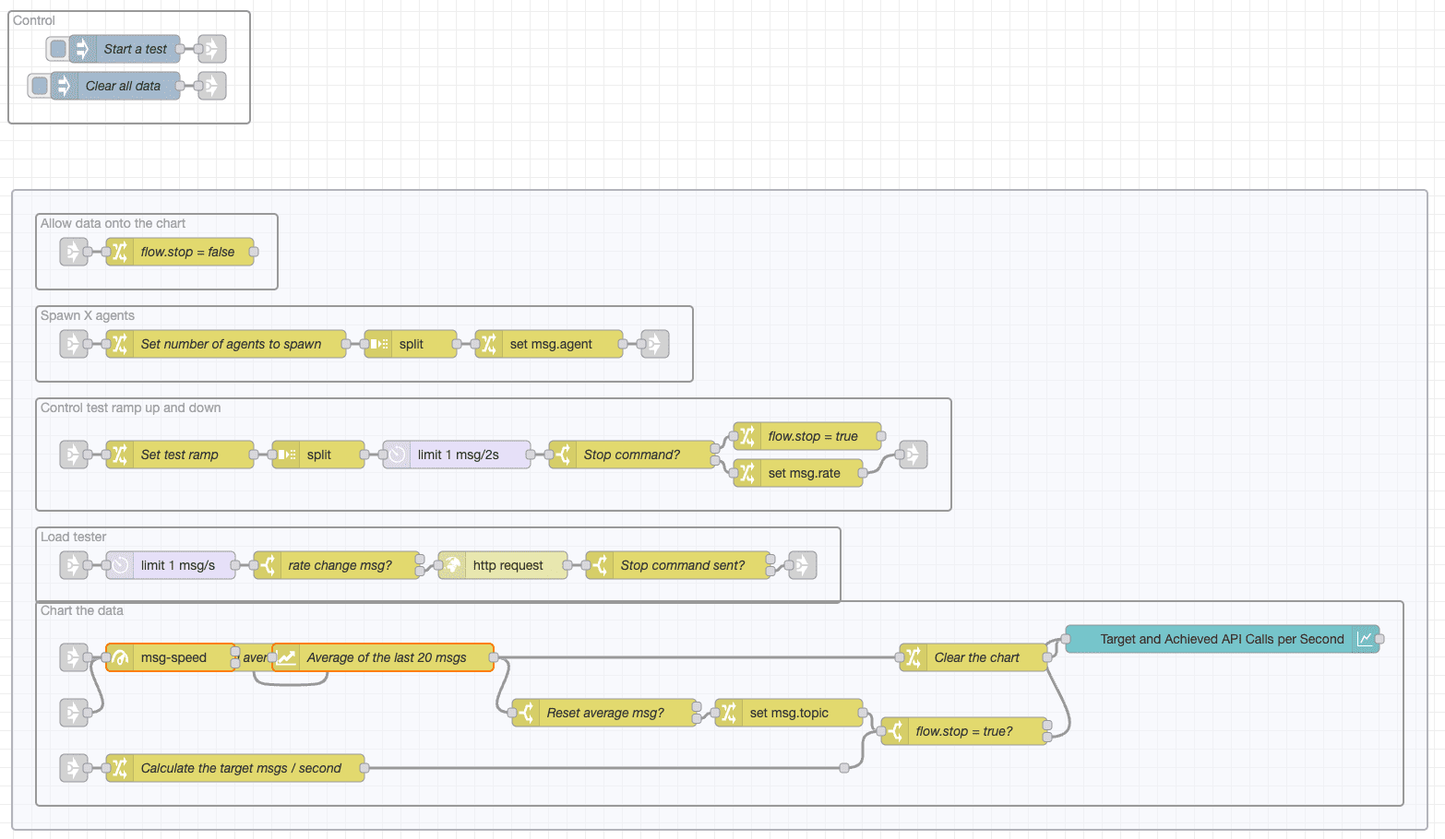
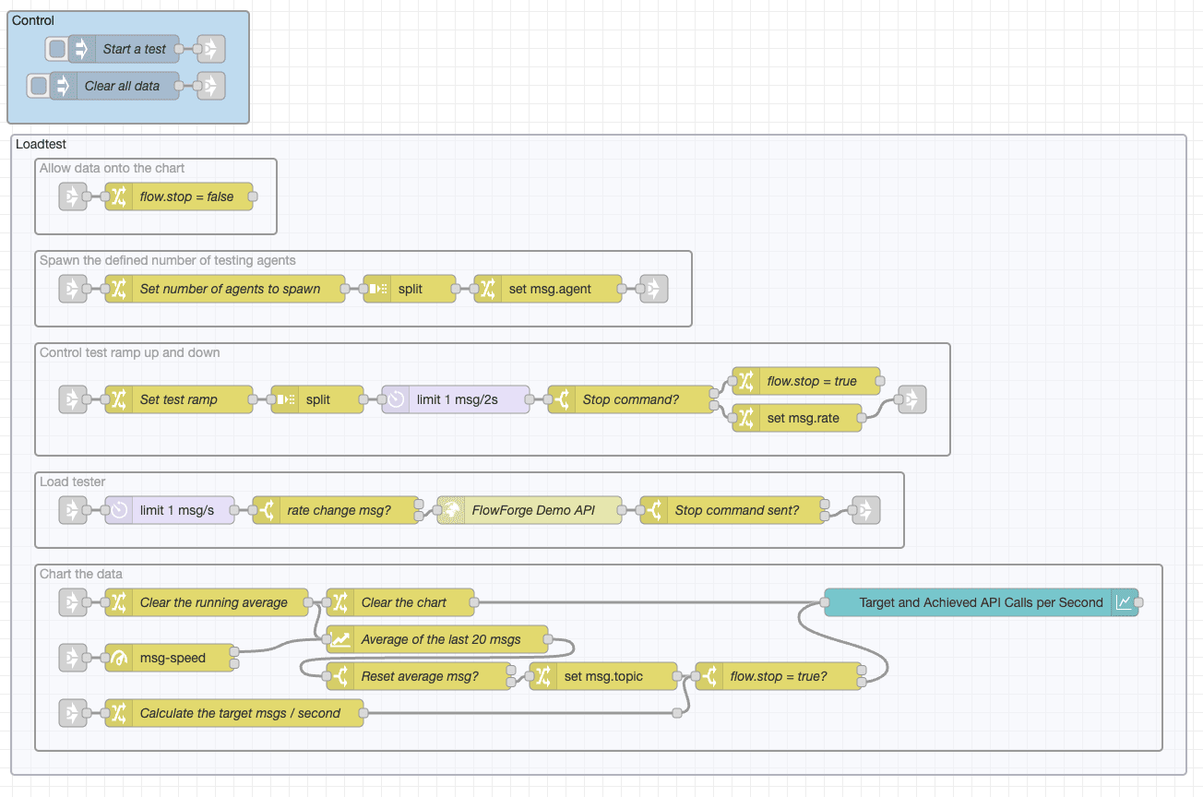
tidier images, better wording, tidier flows to import

Changed region(s): [[0.0, 0.0, 1.0, 1.0]]

diff --git a/src/blog/2023/06/node-red-ha-flowforge.md b/src/blog/2023/06/node-red-ha-flowforge.md
@@ -47,7 +47,7 @@ Don't worry, we have a solution. To update your instance you can use our [DevOps
 
 To explore FlowForge's HA feature preview, I am going to build a basic load testing application. The application will make an API call to a Node-RED instance which will in turn reply with a small payload. 
 
-I'm not looking to methodically load-test HA on FlowForge Cloud here, but I want to make sure I can see the impact of HA on the application. To that end, I am going to create a synthetic bottleneck on the flows running under HA. In simple terms, I will use a delay node which only allows one message to pass through every 100 milliseconds. I'm going to queue up any messages that arrive in the mean-time. This is a reasonable simulation of what we might see if each connection to the HA instance was in turn completing an interaction with a database or MQTT broker.
+I'm not looking to methodically load-test HA on FlowForge Cloud here, but I want to make sure I can see the impact of HA on the application. To that end, I am going to create a synthetic bottleneck on the flows running in HA. In simple terms, I will use a delay node which only allows one message to pass through every 100 milliseconds. I'm going to queue up any messages that arrive in the mean-time. This is a reasonable simulation of what we might see if each connection to the HA instance was in turn completing an interaction with a database or MQTT broker.
 
  ![API which returns a timestamp and will only reply 10 times a second](./images/api-flow.png "API which returns a timestamp and will only reply 10 times a second")
 
@@ -57,19 +57,21 @@ I'm not looking to methodically load-test HA on FlowForge Cloud here, but I want
 [{"id":"045a7c658cff2c79","type":"group","z":"03c64b484908c3ed","name":"API with an artificial bottleneck","style":{"label":true},"nodes":["441caf15dca25bf5","3cb096f08952b5b0","31a50f37100b831c","3e9f592a0e907077"],"x":34,"y":39,"w":872,"h":82},{"id":"441caf15dca25bf5","type":"http in","z":"03c64b484908c3ed","g":"045a7c658cff2c79","name":"","url":"/api","method":"get","upload":false,"swaggerDoc":"","x":120,"y":80,"wires":[["31a50f37100b831c"]]},{"id":"3cb096f08952b5b0","type":"http response","z":"03c64b484908c3ed","g":"045a7c658cff2c79","name":"","statusCode":"","headers":{},"x":830,"y":80,"wires":[]},{"id":"31a50f37100b831c","type":"delay","z":"03c64b484908c3ed","g":"045a7c658cff2c79","name":"Artificial bottleneck of 100 Milliseconds","pauseType":"delay","timeout":"100","timeoutUnits":"milliseconds","rate":"1","nbRateUnits":"1","rateUnits":"second","randomFirst":"1","randomLast":"5","randomUnits":"seconds","drop":false,"allowrate":false,"outputs":1,"x":360,"y":80,"wires":[["3e9f592a0e907077"]]},{"id":"3e9f592a0e907077","type":"change","z":"03c64b484908c3ed","g":"045a7c658cff2c79","name":"msg.payload = timestamp","rules":[{"t":"set","p":"payload","pt":"msg","to":"","tot":"date"}],"action":"","property":"","from":"","to":"","reg":false,"x":650,"y":80,"wires":[["3cb096f08952b5b0"]]}]
  ```
 
-The next step is to create a Node-RED flow to apply load to the API and record response rates. I want the flow to control the load-test level over a period of time and show the results on a graph. I've also attempted to minimise the impact of any bottlenecks outside of API I'm testing.
+The next step is to create a Node-RED flow to apply load to the API and record response rates. I want the flow to control the load-test level over a period of time and show the results on a graph.
 
 ![Load-testing flow](./images/loadtest-flow.png "Load-testing flow")
 
-If you'd like to view it yourself you can import the load-tester into Node-RED using the code below. I've tested this flow on standard and FlowForge Node-RED version 3.0.2 so it should run fine on any Node-RED instance with sufficient bandwidth and compute power.
+If you'd like to view this flow yourself you can import the load-tester into Node-RED using the code below. I've tested this flow on standard and FlowForge Node-RED version 3.0.2 so it should run fine on any Node-RED instance with sufficient bandwidth and compute power.
 
 ```json
-[{"id":"f6f2187d.f17ca8","type":"tab","label":"Load Tester","disabled":false,"info":""},{"id":"10522c0baed97b5b","type":"group","z":"f6f2187d.f17ca8","name":"","style":{"stroke":"#b2b3bd","fill":"#f2f3fb","fill-opacity":"0.5","label":true,"color":"#32333b"},"nodes":["a2e1c5156a24ea78","c7373136339401aa","55e8c82ad7a34348","8501b8a0073d43b6","b68cd727d589a27f"],"x":38,"y":233,"w":1534,"h":694},{"id":"2efd22a943329fc5","type":"group","z":"f6f2187d.f17ca8","name":"Control","style":{"label":true},"nodes":["19ac671f57cb4861","b5bd39105d7e709f","e572e84b9390305a","020775aa43e7dfda"],"x":34,"y":39,"w":262,"h":122},{"id":"a2e1c5156a24ea78","type":"group","z":"f6f2187d.f17ca8","g":"10522c0baed97b5b","name":"Spawn X agents","style":{"label":true},"nodes":["091d36d6e00578ce","a82342ad9c7a5d43","5fddc154f1a56e2c","64414f6450cf3953","5a238b36ad1cd200"],"x":64,"y":359,"w":712,"h":82},{"id":"c7373136339401aa","type":"group","z":"f6f2187d.f17ca8","g":"10522c0baed97b5b","name":"Control test ramp up and down","style":{"label":true},"nodes":["6cb00c173376e046","3adab13204328c4d","9f19aff9ab804d3d","4d46ca64933ac1d3","71a35667382f0c5a","9490dab01d32ad32","3f9f8d0df34377f2","32fd211dc6eacc21"],"x":64,"y":459,"w":992,"h":122},{"id":"55e8c82ad7a34348","type":"group","z":"f6f2187d.f17ca8","g":"10522c0baed97b5b","name":"Load tester","style":{"label":true},"nodes":["466b7bc51b380a66","908750260a627af8","8e6ea88e04427117","d543dcaaa192df98","f293c04ab38c4d90","4782b199b4716137"],"x":64,"y":599,"w":872,"h":82},{"id":"8501b8a0073d43b6","type":"group","z":"f6f2187d.f17ca8","g":"10522c0baed97b5b","name":"Chart the data","style":{"label":true},"nodes":["180c5e48ef2bc3dc","35373d372a8332bd","50fc36ba2355499d","17e6b261606e685d","2c1f01a17d300de8","ae514cab763c2fa7","0715e1fb5dafc7b8","67c09ddccdf925b0","2f2ec619699434f9","7a47fef4a69aefb0","0f474f2e72a21deb","9cc5785934424c73","837736a63a478ade","35373d372a8332bd"],"x":64,"y":679,"w":1482,"h":222},{"id":"b68cd727d589a27f","type":"group","z":"f6f2187d.f17ca8","g":"10522c0baed97b5b","name":"Allow data onto the chart","style":{"label":true},"nodes":["220236ca84210a64","236bbe5fa503c96c"],"x":64,"y":259,"w":262,"h":82},{"id":"0f474f2e72a21deb","type":"junction","z":"f6f2187d.f17ca8","g":"8501b8a0073d43b6","x":940,"y":860,"wires":[["837736a63a478ade"]]},{"id":"091d36d6e00578ce","type":"change","z":"f6f2187d.f17ca8","g":"a2e1c5156a24ea78","name":"Set number of agents to spawn","rules":[{"t":"set","p":"payload","pt":"msg","to":"[\"1\",\"2\",\"3\",\"4\",\"5\",\"6\",\"7\",\"8\",\"9\",\"10\"]","tot":"json"}],"action":"","property":"","from":"","to":"","reg":false,"x":270,"y":400,"wires":[["a82342ad9c7a5d43"]]},{"id":"a82342ad9c7a5d43","type":"split","z":"f6f2187d.f17ca8","g":"a2e1c5156a24ea78","name":"","splt":"\\n","spltType":"str","arraySplt":1,"arraySpltType":"len","stream":false,"addname":"","x":470,"y":400,"wires":[["5a238b36ad1cd200"]]},{"id":"5fddc154f1a56e2c","type":"link in","z":"f6f2187d.f17ca8","g":"a2e1c5156a24ea78","name":"link in 13","links":["b5bd39105d7e709f"],"x":105,"y":400,"wires":[["091d36d6e00578ce"]]},{"id":"64414f6450cf3953","type":"link out","z":"f6f2187d.f17ca8","g":"a2e1c5156a24ea78","name":"link out 9","mode":"link","links":["8e6ea88e04427117"],"x":735,"y":400,"wires":[]},{"id":"5a238b36ad1cd200","type":"change","z":"f6f2187d.f17ca8","g":"a2e1c5156a24ea78","name":"","rules":[{"t":"set","p":"agent","pt":"msg","to":"payload","tot":"msg"}],"action":"","property":"","from":"","to":"","reg":false,"x":620,"y":400,"wires":[["64414f6450cf3953"]]},{"id":"6cb00c173376e046","type":"link out","z":"f6f2187d.f17ca8","g":"c7373136339401aa","name":"link out 10","mode":"link","links":["0715e1fb5dafc7b8","8e6ea88e04427117"],"x":1015,"y":520,"wires":[]},{"id":"3adab13204328c4d","type":"delay","z":"f6f2187d.f17ca8","g":"c7373136339401aa","name":"","pauseType":"rate","timeout":"5","timeoutUnits":"seconds","rate":"1","nbRateUnits":"2","rateUnits":"second","randomFirst":"1","randomLast":"5","randomUnits":"seconds","drop":false,"allowrate":false,"outputs":1,"x":520,"y":520,"wires":[["3f9f8d0df34377f2"]]},{"id":"9f19aff9ab804d3d","type":"split","z":"f6f2187d.f17ca8","g":"c7373136339401aa","name":"","splt":"\\n","spltType":"str","arraySplt":1,"arraySpltType":"len","stream":false,"addname":"","x":370,"y":520,"wires":[["3adab13204328c4d"]]},{"id":"4d46ca64933ac1d3","type":"link in","z":"f6f2187d.f17ca8","g":"c7373136339401aa","name":"link in 14","links":["b5bd39105d7e709f"],"x":105,"y":520,"wires":[["71a35667382f0c5a"]]},{"id":"71a35667382f0c5a","type":"change","z":"f6f2187d.f17ca8","g":"c7373136339401aa","name":"Set test ramp","rules":[{"t":"set","p":"payload","pt":"msg","to":"[1000,900,800,700,600,500,400,300,200,100,90,80,70,60,50,50,50,50,50,50,50,50,50,50,50,50,50,50,50,50,50,50,50,50,50,50,50,50,50,50,50,50,50,50,60,70,80,90,100,200,300,400,500,600,700,800,900,1000,\"stop\"]","tot":"json"}],"action":"","property":"","from":"","to":"","reg":false,"x":220,"y":520,"wires":[["9f19aff9ab804d3d"]]},{"id":"9490dab01d32ad32","type":"change","z":"f6f2187d.f17ca8","g":"c7373136339401aa","name":"","rules":[{"t":"set","p":"rate","pt":"msg","to":"payload","tot":"msg"}],"action":"","property":"","from":"","to":"","reg":false,"x":890,"y":540,"wires":[["6cb00c173376e046"]]},{"id":"3f9f8d0df34377f2","type":"switch","z":"f6f2187d.f17ca8","g":"c7373136339401aa","name":"Stop command?","property":"payload","propertyType":"msg","rules":[{"t":"eq","v":"stop","vt":"str"},{"t":"else"}],"checkall":"true","repair":false,"outputs":2,"x":710,"y":520,"wires":[["32fd211dc6eacc21"],["9490dab01d32ad32"]]},{"id":"32fd211dc6eacc21","type":"change","z":"f6f2187d.f17ca8","g":"c7373136339401aa","name":"flow.stop = true","rules":[{"t":"set","p":"stop","pt":"flow","to":"true","tot":"bool"}],"action":"","property":"","from":"","to":"","reg":false,"x":900,"y":500,"wires":[[]]},{"id":"466b7bc51b380a66","type":"http request","z":"f6f2187d.f17ca8","g":"55e8c82ad7a34348","name":"","method":"GET","ret":"txt","paytoqs":"ignore","url":"","tls":"","persist":false,"proxy":"","insecureHTTPParser":false,"authType":"","senderr":false,"headers":[],"x":570,"y":640,"wires":[["4782b199b4716137"]]},{"id":"908750260a627af8","type":"delay","z":"f6f2187d.f17ca8","g":"55e8c82ad7a34348","name":"","pauseType":"rate","timeout":"5","timeoutUnits":"seconds","rate":"1","nbRateUnits":"1","rateUnits":"second","randomFirst":"1","randomLast":"5","randomUnits":"seconds","drop":false,"allowrate":true,"outputs":1,"x":210,"y":640,"wires":[["f293c04ab38c4d90"]]},{"id":"8e6ea88e04427117","type":"link in","z":"f6f2187d.f17ca8","g":"55e8c82ad7a34348","name":"link in 15","links":["64414f6450cf3953","6cb00c173376e046","d543dcaaa192df98","702296619b530dfa"],"x":105,"y":640,"wires":[["908750260a627af8"]]},{"id":"d543dcaaa192df98","type":"link out","z":"f6f2187d.f17ca8","g":"55e8c82ad7a34348","name":"link out 11","mode":"link","links":["e90e02e14ea3224a","8e6ea88e04427117","50fc36ba2355499d"],"x":895,"y":640,"wires":[]},{"id":"f293c04ab38c4d90","type":"switch","z":"f6f2187d.f17ca8","g":"55e8c82ad7a34348","name":"rate change msg?","property":"rate","propertyType":"msg","rules":[{"t":"nnull"},{"t":"else"}],"checkall":"true","repair":false,"outputs":2,"x":390,"y":640,"wires":[[],["466b7bc51b380a66"]]},{"id":"4782b199b4716137","type":"switch","z":"f6f2187d.f17ca8","g":"55e8c82ad7a34348","name":"Stop command sent?","property":"stop","propertyType":"flow","rules":[{"t":"true"},{"t":"else"}],"checkall":"true","repair":false,"outputs":2,"x":760,"y":640,"wires":[[],["d543dcaaa192df98"]]},{"id":"50fc36ba2355499d","type":"link in","z":"f6f2187d.f17ca8","g":"8501b8a0073d43b6","name":"link in 16","links":["d543dcaaa192df98"],"x":105,"y":800,"wires":[["180c5e48ef2bc3dc"]]},{"id":"2c1f01a17d300de8","type":"change","z":"f6f2187d.f17ca8","g":"8501b8a0073d43b6","name":"","rules":[{"t":"set","p":"topic","pt":"msg","to":"Achieved API Calls / Second","tot":"str"}],"action":"","property":"","from":"","to":"","reg":false,"x":880,"y":800,"wires":[["837736a63a478ade"]]},{"id":"ae514cab763c2fa7","type":"change","z":"f6f2187d.f17ca8","g":"8501b8a0073d43b6","name":"Calculate the target msgs / second","rules":[{"t":"set","p":"payload","pt":"msg","to":"1000 / msg.payload","tot":"jsonata"},{"t":"set","p":"topic","pt":"msg","to":"Target API Calls / Second","tot":"str"}],"action":"","property":"","from":"","to":"","reg":false,"x":280,"y":860,"wires":[["0f474f2e72a21deb"]]},{"id":"0715e1fb5dafc7b8","type":"link in","z":"f6f2187d.f17ca8","g":"8501b8a0073d43b6","name":"link in 17","links":["6cb00c173376e046","702296619b530dfa"],"x":105,"y":860,"wires":[["ae514cab763c2fa7"]]},{"id":"67c09ddccdf925b0","type":"link in","z":"f6f2187d.f17ca8","g":"8501b8a0073d43b6","name":"link in 18","links":["b5bd39105d7e709f","020775aa43e7dfda"],"x":105,"y":740,"wires":[["7a47fef4a69aefb0"]]},{"id":"2f2ec619699434f9","type":"change","z":"f6f2187d.f17ca8","g":"8501b8a0073d43b6","name":"Clear the chart","rules":[{"t":"set","p":"payload","pt":"msg","to":"[]","tot":"json"}],"action":"","property":"","from":"","to":"","reg":false,"x":1080,"y":740,"wires":[["35373d372a8332bd"]]},{"id":"7a47fef4a69aefb0","type":"change","z":"f6f2187d.f17ca8","g":"8501b8a0073d43b6","name":"Clear the running average","rules":[{"t":"set","p":"payload","pt":"msg","to":"clear","tot":"str"}],"action":"","property":"","from":"","to":"","reg":false,"x":250,"y":740,"wires":[["17e6b261606e685d","2f2ec619699434f9"]]},{"id":"9cc5785934424c73","type":"switch","z":"f6f2187d.f17ca8","g":"8501b8a0073d43b6","name":"Reset average msg?","property":"payload_in","propertyType":"msg","rules":[{"t":"eq","v":"clear","vt":"str"},{"t":"else"}],"checkall":"true","repair":false,"outputs":2,"x":680,"y":800,"wires":[[],["2c1f01a17d300de8"]]},{"id":"837736a63a478ade","type":"switch","z":"f6f2187d.f17ca8","g":"8501b8a0073d43b6","name":"flow.stop = true?","property":"stop","propertyType":"flow","rules":[{"t":"true"},{"t":"else"}],"checkall":"true","repair":false,"outputs":2,"x":1070,"y":820,"wires":[[],["35373d372a8332bd"]]},{"id":"220236ca84210a64","type":"change","z":"f6f2187d.f17ca8","g":"b68cd727d589a27f","name":"flow.stop = false","rules":[{"t":"set","p":"stop","pt":"flow","to":"false","tot":"bool"}],"action":"","property":"","from":"","to":"","reg":false,"x":220,"y":300,"wires":[[]]},{"id":"236bbe5fa503c96c","type":"link in","z":"f6f2187d.f17ca8","g":"b68cd727d589a27f","name":"link in 19","links":["b5bd39105d7e709f"],"x":105,"y":300,"wires":[["220236ca84210a64"]]},{"id":"19ac671f57cb4861","type":"inject","z":"f6f2187d.f17ca8","g":"2efd22a943329fc5","name":"Start a test","props":[],"repeat":"","crontab":"","once":false,"onceDelay":0.1,"topic":"","x":160,"y":80,"wires":[["b5bd39105d7e709f"]]},{"id":"b5bd39105d7e709f","type":"link out","z":"f6f2187d.f17ca8","g":"2efd22a943329fc5","name":"link out 12","mode":"link","links":["c400cbe00d5157eb","11f154eb8793628e","932ad072f2a06f5b","e9af1c9fa92b2d28","f82a1a50e69f92ac","5fddc154f1a56e2c","4d46ca64933ac1d3","67c09ddccdf925b0","236bbe5fa503c96c","34adf87fc623f3a9","ff6cf9cb22aae286","eb689d3c5969a421","f0be31cc6f44d71e"],"x":255,"y":80,"wires":[]},{"id":"e572e84b9390305a","type":"inject","z":"f6f2187d.f17ca8","g":"2efd22a943329fc5","name":"Clear all data","props":[],"repeat":"","crontab":"","once":false,"onceDelay":0.1,"topic":"","x":150,"y":120,"wires":[["020775aa43e7dfda"]]},{"id":"020775aa43e7dfda","type":"link out","z":"f6f2187d.f17ca8","g":"2efd22a943329fc5","name":"link out 13","mode":"link","links":["932ad072f2a06f5b","67c09ddccdf925b0","eb689d3c5969a421"],"x":255,"y":120,"wires":[]},{"id":"35373d372a8332bd","type":"ui_chart","z":"f6f2187d.f17ca8","g":"8501b8a0073d43b6","name":"","group":"ac144f4cf90c7c0f","order":0,"width":"6","height":"6","label":"Target and Achieved API Calls per Second","chartType":"line","legend":"true","xformat":"HH:mm:ss","interpolate":"linear","nodata":"","dot":false,"ymin":"","ymax":"","removeOlder":"5","removeOlderPoints":"","removeOlderUnit":"60","cutout":0,"useOneColor":false,"useUTC":false,"colors":["#1f77b4","#ec6dee","#ff7f0e","#2ca02c","#98df8a","#d62728","#ff9896","#9467bd","#c5b0d5"],"outputs":1,"useDifferentColor":false,"className":"","x":1350,"y":720,"wires":[[]]},{"id":"180c5e48ef2bc3dc","type":"msg-speed","z":"f6f2187d.f17ca8","name":"","frequency":"sec","interval":1,"estimation":false,"ignore":true,"pauseAtStartup":false,"topicDependent":false,"x":210,"y":740,"wires":[["17e6b261606e685d"],[]]},{"id":"17e6b261606e685d","type":"moving-average","z":"f6f2187d.f17ca8","name":"Average of the last 20 msgs","amount":"20","weight":"cumulative","x":440,"y":740,"wires":[["9cc5785934424c73"]]},{"id":"ac144f4cf90c7c0f","type":"ui_group","name":"","tab":"d07184e97ed77e45","order":1,"disp":true,"width":"6","collapse":false,"className":""},{"id":"d07184e97ed77e45","type":"ui_tab","name":"Home","icon":"dashboard","disabled":false,"hidden":false}]
+[{"id":"f6f2187d.f17ca8","type":"tab","label":"Load Tester","disabled":false,"info":""},{"id":"10522c0baed97b5b","type":"group","z":"f6f2187d.f17ca8","name":"Loadtest","style":{"stroke":"#b2b3bd","fill":"#f2f3fb","fill-opacity":"0.5","label":true,"color":"#32333b"},"nodes":["a2e1c5156a24ea78","c7373136339401aa","55e8c82ad7a34348","8501b8a0073d43b6","b68cd727d589a27f"],"x":38,"y":233,"w":1274,"h":694},{"id":"2efd22a943329fc5","type":"group","z":"f6f2187d.f17ca8","name":"Control","style":{"label":true,"fill":"#bfdbef","color":"#000000"},"nodes":["19ac671f57cb4861","b5bd39105d7e709f","e572e84b9390305a","020775aa43e7dfda"],"x":34,"y":99,"w":262,"h":122},{"id":"a2e1c5156a24ea78","type":"group","z":"f6f2187d.f17ca8","g":"10522c0baed97b5b","name":"Spawn the defined number of testing agents","style":{"label":true},"nodes":["091d36d6e00578ce","a82342ad9c7a5d43","5fddc154f1a56e2c","64414f6450cf3953","5a238b36ad1cd200"],"x":64,"y":359,"w":712,"h":82},{"id":"c7373136339401aa","type":"group","z":"f6f2187d.f17ca8","g":"10522c0baed97b5b","name":"Control test ramp up and down","style":{"label":true},"nodes":["6cb00c173376e046","3adab13204328c4d","9f19aff9ab804d3d","4d46ca64933ac1d3","71a35667382f0c5a","9490dab01d32ad32","3f9f8d0df34377f2","32fd211dc6eacc21"],"x":64,"y":459,"w":992,"h":122},{"id":"55e8c82ad7a34348","type":"group","z":"f6f2187d.f17ca8","g":"10522c0baed97b5b","name":"Load tester","style":{"label":true},"nodes":["908750260a627af8","8e6ea88e04427117","d543dcaaa192df98","f293c04ab38c4d90","4782b199b4716137","b6bd1006d988e945"],"x":64,"y":599,"w":942,"h":82},{"id":"8501b8a0073d43b6","type":"group","z":"f6f2187d.f17ca8","g":"10522c0baed97b5b","name":"Chart the data","style":{"label":true},"nodes":["180c5e48ef2bc3dc","35373d372a8332bd","50fc36ba2355499d","17e6b261606e685d","2c1f01a17d300de8","ae514cab763c2fa7","0715e1fb5dafc7b8","67c09ddccdf925b0","2f2ec619699434f9","7a47fef4a69aefb0","0f474f2e72a21deb","9cc5785934424c73","837736a63a478ade","35373d372a8332bd"],"x":64,"y":699,"w":1222,"h":202},{"id":"b68cd727d589a27f","type":"group","z":"f6f2187d.f17ca8","g":"10522c0baed97b5b","name":"Allow data onto the chart","style":{"label":true},"nodes":["220236ca84210a64","236bbe5fa503c96c"],"x":64,"y":259,"w":262,"h":82},{"id":"0f474f2e72a21deb","type":"junction","z":"f6f2187d.f17ca8","g":"8501b8a0073d43b6","x":760,"y":860,"wires":[["837736a63a478ade"]]},{"id":"091d36d6e00578ce","type":"change","z":"f6f2187d.f17ca8","g":"a2e1c5156a24ea78","name":"Set number of agents to spawn","rules":[{"t":"set","p":"payload","pt":"msg","to":"[\"1\",\"2\",\"3\",\"4\",\"5\",\"6\",\"7\",\"8\",\"9\",\"10\"]","tot":"json"}],"action":"","property":"","from":"","to":"","reg":false,"x":270,"y":400,"wires":[["a82342ad9c7a5d43"]]},{"id":"a82342ad9c7a5d43","type":"split","z":"f6f2187d.f17ca8","g":"a2e1c5156a24ea78","name":"","splt":"\\n","spltType":"str","arraySplt":1,"arraySpltType":"len","stream":false,"addname":"","x":470,"y":400,"wires":[["5a238b36ad1cd200"]]},{"id":"5fddc154f1a56e2c","type":"link in","z":"f6f2187d.f17ca8","g":"a2e1c5156a24ea78","name":"link in 13","links":["b5bd39105d7e709f"],"x":105,"y":400,"wires":[["091d36d6e00578ce"]]},{"id":"64414f6450cf3953","type":"link out","z":"f6f2187d.f17ca8","g":"a2e1c5156a24ea78","name":"link out 9","mode":"link","links":["8e6ea88e04427117"],"x":735,"y":400,"wires":[]},{"id":"5a238b36ad1cd200","type":"change","z":"f6f2187d.f17ca8","g":"a2e1c5156a24ea78","name":"","rules":[{"t":"set","p":"agent","pt":"msg","to":"payload","tot":"msg"}],"action":"","property":"","from":"","to":"","reg":false,"x":620,"y":400,"wires":[["64414f6450cf3953"]]},{"id":"6cb00c173376e046","type":"link out","z":"f6f2187d.f17ca8","g":"c7373136339401aa","name":"link out 10","mode":"link","links":["0715e1fb5dafc7b8","8e6ea88e04427117"],"x":1015,"y":520,"wires":[]},{"id":"3adab13204328c4d","type":"delay","z":"f6f2187d.f17ca8","g":"c7373136339401aa","name":"","pauseType":"rate","timeout":"5","timeoutUnits":"seconds","rate":"1","nbRateUnits":"2","rateUnits":"second","randomFirst":"1","randomLast":"5","randomUnits":"seconds","drop":false,"allowrate":false,"outputs":1,"x":520,"y":520,"wires":[["3f9f8d0df34377f2"]]},{"id":"9f19aff9ab804d3d","type":"split","z":"f6f2187d.f17ca8","g":"c7373136339401aa","name":"","splt":"\\n","spltType":"str","arraySplt":1,"arraySpltType":"len","stream":false,"addname":"","x":370,"y":520,"wires":[["3adab13204328c4d"]]},{"id":"4d46ca64933ac1d3","type":"link in","z":"f6f2187d.f17ca8","g":"c7373136339401aa","name":"link in 14","links":["b5bd39105d7e709f"],"x":105,"y":520,"wires":[["71a35667382f0c5a"]]},{"id":"71a35667382f0c5a","type":"change","z":"f6f2187d.f17ca8","g":"c7373136339401aa","name":"Set test ramp","rules":[{"t":"set","p":"payload","pt":"msg","to":"[1000,900,800,700,600,500,400,300,200,100,50,50,50,50,50,50,50,50,50,50,100,200,300,400,500,600,700,800,900,1000,\"stop\"]","tot":"json"}],"action":"","property":"","from":"","to":"","reg":false,"x":220,"y":520,"wires":[["9f19aff9ab804d3d"]]},{"id":"9490dab01d32ad32","type":"change","z":"f6f2187d.f17ca8","g":"c7373136339401aa","name":"","rules":[{"t":"set","p":"rate","pt":"msg","to":"payload","tot":"msg"}],"action":"","property":"","from":"","to":"","reg":false,"x":890,"y":540,"wires":[["6cb00c173376e046"]]},{"id":"3f9f8d0df34377f2","type":"switch","z":"f6f2187d.f17ca8","g":"c7373136339401aa","name":"Stop command?","property":"payload","propertyType":"msg","rules":[{"t":"eq","v":"stop","vt":"str"},{"t":"else"}],"checkall":"true","repair":false,"outputs":2,"x":710,"y":520,"wires":[["32fd211dc6eacc21"],["9490dab01d32ad32"]]},{"id":"32fd211dc6eacc21","type":"change","z":"f6f2187d.f17ca8","g":"c7373136339401aa","name":"flow.stop = true","rules":[{"t":"set","p":"stop","pt":"flow","to":"true","tot":"bool"}],"action":"","property":"","from":"","to":"","reg":false,"x":900,"y":500,"wires":[[]]},{"id":"908750260a627af8","type":"delay","z":"f6f2187d.f17ca8","g":"55e8c82ad7a34348","name":"","pauseType":"rate","timeout":"5","timeoutUnits":"seconds","rate":"1","nbRateUnits":"1","rateUnits":"second","randomFirst":"1","randomLast":"5","randomUnits":"seconds","drop":false,"allowrate":true,"outputs":1,"x":210,"y":640,"wires":[["f293c04ab38c4d90"]]},{"id":"8e6ea88e04427117","type":"link in","z":"f6f2187d.f17ca8","g":"55e8c82ad7a34348","name":"link in 15","links":["64414f6450cf3953","6cb00c173376e046","d543dcaaa192df98","702296619b530dfa"],"x":105,"y":640,"wires":[["908750260a627af8"]]},{"id":"d543dcaaa192df98","type":"link out","z":"f6f2187d.f17ca8","g":"55e8c82ad7a34348","name":"link out 11","mode":"link","links":["e90e02e14ea3224a","8e6ea88e04427117","50fc36ba2355499d"],"x":965,"y":640,"wires":[]},{"id":"f293c04ab38c4d90","type":"switch","z":"f6f2187d.f17ca8","g":"55e8c82ad7a34348","name":"rate change msg?","property":"rate","propertyType":"msg","rules":[{"t":"nnull"},{"t":"else"}],"checkall":"true","repair":false,"outputs":2,"x":390,"y":640,"wires":[[],["b6bd1006d988e945"]]},{"id":"4782b199b4716137","type":"switch","z":"f6f2187d.f17ca8","g":"55e8c82ad7a34348","name":"Stop command sent?","property":"stop","propertyType":"flow","rules":[{"t":"true"},{"t":"else"}],"checkall":"true","repair":false,"outputs":2,"x":820,"y":640,"wires":[[],["d543dcaaa192df98"]]},{"id":"50fc36ba2355499d","type":"link in","z":"f6f2187d.f17ca8","g":"8501b8a0073d43b6","name":"link in 16","links":["d543dcaaa192df98"],"x":105,"y":800,"wires":[["180c5e48ef2bc3dc"]]},{"id":"2c1f01a17d300de8","type":"change","z":"f6f2187d.f17ca8","g":"8501b8a0073d43b6","name":"","rules":[{"t":"set","p":"topic","pt":"msg","to":"Achieved API Calls / Second","tot":"str"}],"action":"","property":"","from":"","to":"","reg":false,"x":680,"y":820,"wires":[["837736a63a478ade"]]},{"id":"ae514cab763c2fa7","type":"change","z":"f6f2187d.f17ca8","g":"8501b8a0073d43b6","name":"Calculate the target msgs / second","rules":[{"t":"set","p":"payload","pt":"msg","to":"1000 / msg.payload","tot":"jsonata"},{"t":"set","p":"topic","pt":"msg","to":"Target API Calls / Second","tot":"str"}],"action":"","property":"","from":"","to":"","reg":false,"x":280,"y":860,"wires":[["0f474f2e72a21deb"]]},{"id":"0715e1fb5dafc7b8","type":"link in","z":"f6f2187d.f17ca8","g":"8501b8a0073d43b6","name":"link in 17","links":["6cb00c173376e046","702296619b530dfa"],"x":105,"y":860,"wires":[["ae514cab763c2fa7"]]},{"id":"67c09ddccdf925b0","type":"link in","z":"f6f2187d.f17ca8","g":"8501b8a0073d43b6","name":"link in 18","links":["b5bd39105d7e709f","020775aa43e7dfda"],"x":105,"y":740,"wires":[["7a47fef4a69aefb0"]]},{"id":"2f2ec619699434f9","type":"change","z":"f6f2187d.f17ca8","g":"8501b8a0073d43b6","name":"Clear the chart","rules":[{"t":"set","p":"payload","pt":"msg","to":"[]","tot":"json"}],"action":"","property":"","from":"","to":"","reg":false,"x":460,"y":740,"wires":[["35373d372a8332bd"]]},{"id":"7a47fef4a69aefb0","type":"change","z":"f6f2187d.f17ca8","g":"8501b8a0073d43b6","name":"Clear the running average","rules":[{"t":"set","p":"payload","pt":"msg","to":"clear","tot":"str"}],"action":"","property":"","from":"","to":"","reg":false,"x":250,"y":740,"wires":[["17e6b261606e685d","2f2ec619699434f9"]]},{"id":"9cc5785934424c73","type":"switch","z":"f6f2187d.f17ca8","g":"8501b8a0073d43b6","name":"Reset average msg?","property":"payload_in","propertyType":"msg","rules":[{"t":"eq","v":"clear","vt":"str"},{"t":"else"}],"checkall":"true","repair":false,"outputs":2,"x":480,"y":820,"wires":[[],["2c1f01a17d300de8"]]},{"id":"837736a63a478ade","type":"switch","z":"f6f2187d.f17ca8","g":"8501b8a0073d43b6","name":"flow.stop = true?","property":"stop","propertyType":"flow","rules":[{"t":"true"},{"t":"else"}],"checkall":"true","repair":false,"outputs":2,"x":870,"y":820,"wires":[[],["35373d372a8332bd"]]},{"id":"220236ca84210a64","type":"change","z":"f6f2187d.f17ca8","g":"b68cd727d589a27f","name":"flow.stop = false","rules":[{"t":"set","p":"stop","pt":"flow","to":"false","tot":"bool"}],"action":"","property":"","from":"","to":"","reg":false,"x":220,"y":300,"wires":[[]]},{"id":"236bbe5fa503c96c","type":"link in","z":"f6f2187d.f17ca8","g":"b68cd727d589a27f","name":"link in 19","links":["b5bd39105d7e709f"],"x":105,"y":300,"wires":[["220236ca84210a64"]]},{"id":"19ac671f57cb4861","type":"inject","z":"f6f2187d.f17ca8","g":"2efd22a943329fc5","name":"Start a test","props":[],"repeat":"","crontab":"","once":false,"onceDelay":0.1,"topic":"","x":160,"y":140,"wires":[["b5bd39105d7e709f"]]},{"id":"b5bd39105d7e709f","type":"link out","z":"f6f2187d.f17ca8","g":"2efd22a943329fc5","name":"link out 12","mode":"link","links":["c400cbe00d5157eb","11f154eb8793628e","932ad072f2a06f5b","e9af1c9fa92b2d28","f82a1a50e69f92ac","5fddc154f1a56e2c","4d46ca64933ac1d3","67c09ddccdf925b0","236bbe5fa503c96c","34adf87fc623f3a9","ff6cf9cb22aae286","eb689d3c5969a421","f0be31cc6f44d71e"],"x":255,"y":140,"wires":[]},{"id":"e572e84b9390305a","type":"inject","z":"f6f2187d.f17ca8","g":"2efd22a943329fc5","name":"Clear all data","props":[],"repeat":"","crontab":"","once":false,"onceDelay":0.1,"topic":"","x":150,"y":180,"wires":[["020775aa43e7dfda"]]},{"id":"020775aa43e7dfda","type":"link out","z":"f6f2187d.f17ca8","g":"2efd22a943329fc5","name":"link out 13","mode":"link","links":["932ad072f2a06f5b","67c09ddccdf925b0","eb689d3c5969a421"],"x":255,"y":180,"wires":[]},{"id":"35373d372a8332bd","type":"ui_chart","z":"f6f2187d.f17ca8","g":"8501b8a0073d43b6","name":"","group":"ac144f4cf90c7c0f","order":0,"width":"6","height":"6","label":"Target and Achieved API Calls per Second","chartType":"line","legend":"true","xformat":"HH:mm:ss","interpolate":"linear","nodata":"","dot":false,"ymin":"","ymax":"","removeOlder":"5","removeOlderPoints":"","removeOlderUnit":"60","cutout":0,"useOneColor":false,"useUTC":false,"colors":["#1f77b4","#ec6dee","#ff7f0e","#2ca02c","#98df8a","#d62728","#ff9896","#9467bd","#c5b0d5"],"outputs":1,"useDifferentColor":false,"className":"","x":1090,"y":740,"wires":[[]]},{"id":"180c5e48ef2bc3dc","type":"msg-speed","z":"f6f2187d.f17ca8","g":"8501b8a0073d43b6","name":"","frequency":"sec","interval":1,"estimation":false,"ignore":true,"pauseAtStartup":false,"topicDependent":false,"x":210,"y":800,"wires":[["17e6b261606e685d"],[]]},{"id":"17e6b261606e685d","type":"moving-average","z":"f6f2187d.f17ca8","g":"8501b8a0073d43b6","name":"Average of the last 20 msgs","amount":"20","weight":"cumulative","x":500,"y":780,"wires":[["9cc5785934424c73"]]},{"id":"b6bd1006d988e945","type":"http request","z":"f6f2187d.f17ca8","g":"55e8c82ad7a34348","name":"FlowForge Demo API","method":"GET","ret":"txt","paytoqs":"ignore","url":"","tls":"","persist":false,"proxy":"","insecureHTTPParser":false,"authType":"","senderr":false,"headers":[],"x":600,"y":640,"wires":[["4782b199b4716137"]]},{"id":"ac144f4cf90c7c0f","type":"ui_group","name":"","tab":"d07184e97ed77e45","order":1,"disp":true,"width":"6","collapse":false,"className":""},{"id":"d07184e97ed77e45","type":"ui_tab","name":"Home","icon":"dashboard","disabled":false,"hidden":false}]
 ```
 
 You will need to configure the URL for your API which is stored in the 'http request' node of you wish to run your own tests using this flow.
 
-As configured, the load-tester makes up to 20 API calls per second.
+As configured, the load-tester makes up to 20 API calls per second. You can define your own testing curve by editing the change node labelled 'Set test ramp'. the values in the array are a delay in milliseconds between each attempted API call. Each number in the array defines the speed of the test for the next 2 seconds.
+
+I've setup the flow to chart the speed of the test on the same axes as the results so you can view the achieved speed in the context of each test's configuration.
 
 ### Running the tests
 
@@ -81,13 +83,13 @@ First, let's look at the data from the standard instance.
 
 ![Load-test results from the API running in a standard instance](./images/standard-loadtest.png "Load-test results from the API running in a standard instance")
 
-We are seeing a maximum throughput of 10 API calls per second. There is a slight lag between the test levels and the API processing the calls but the same should show on the HA test. The performance of the API tracks up until it hits the bottleneck I imposed on the API (10 API calls per second).
+We are seeing a maximum throughput of 10 API calls per second. The performance of the API tracks up until it hits the bottleneck I imposed on the API (10 API calls per second). This shows us that the test is using up all the available speed of the API instance.
 
 Let's compare that to the HA instance. We would hope to see around double the performance when compared to the chart above.
 
 ![Load-test results from the API running in a standard HA](./images/ha-loadtest.png "Load-test results from the API running in a HA instance")
 
-As predicted, the performance is practically double that of the standard instance. We are seeing almost double the API throughput at 19 API calls per second.
+As predicted, at 19 calls per second the performance is practically twice that of the standard instance. It's often the case in computer systems that doubling the resources doesn't quite give you twice the performance but 190% seems pretty close and a clear improvement was delivered once the application was running in HA mode.
 
 ### Conclusion
 
